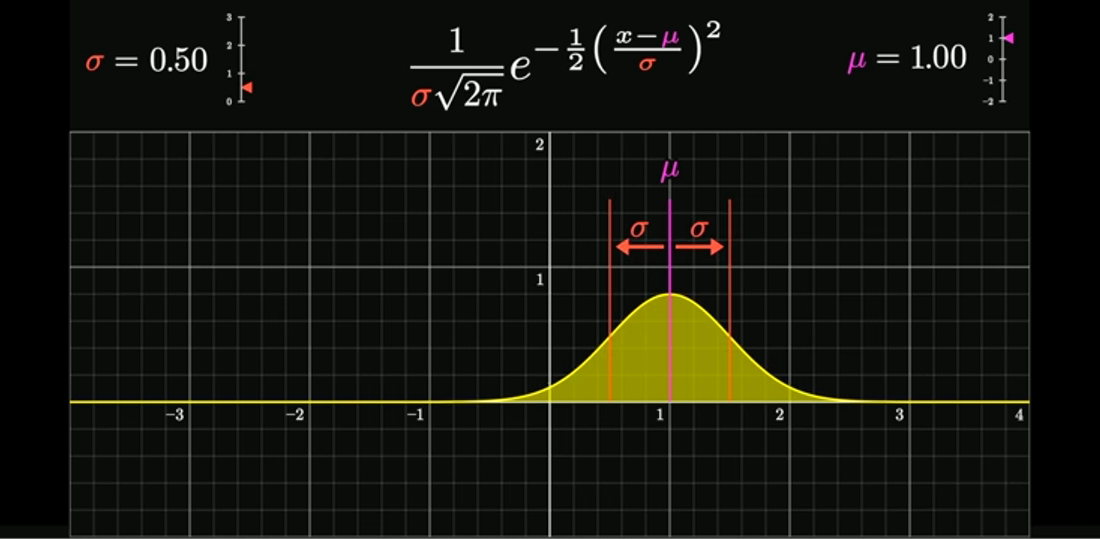
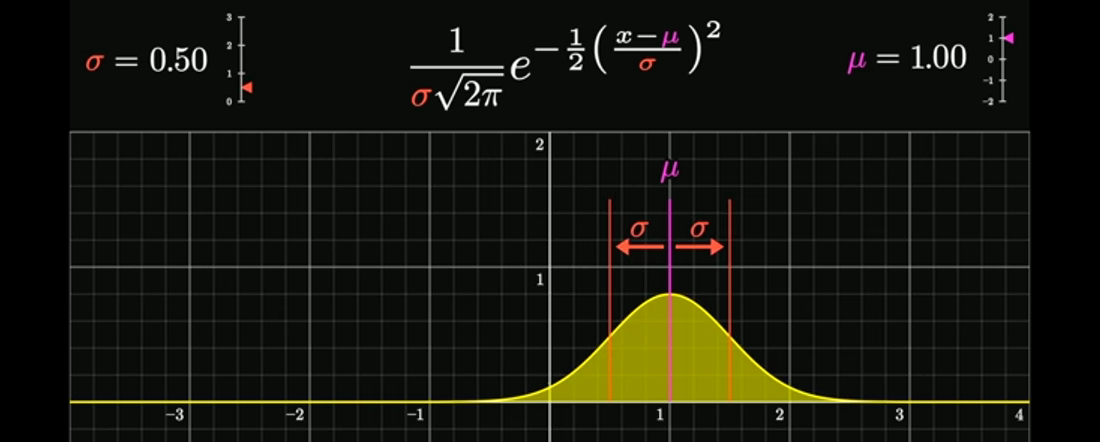
images update

Changed region(s): [[0.0618, 0.0294, 0.9582, 0.9412], [0.0618, 0.9706, 0.9582, 1.0]]

diff --git a/components/home/Hero.tsx b/components/home/Hero.tsx
@@ -19,6 +19,9 @@ const Hero = () => {
   // wallpaper sources (from public/wallpapers)
   const wallpapers = [
     "/wallpapers/0.png",
+    "/wallpapers/01.jpg",
+    "/wallpapers/02.jpg",
+    "/wallpapers/03.jpg",
     "/wallpapers/1.jpg",
     "/wallpapers/11.jpg",
     "/wallpapers/15.jpg",